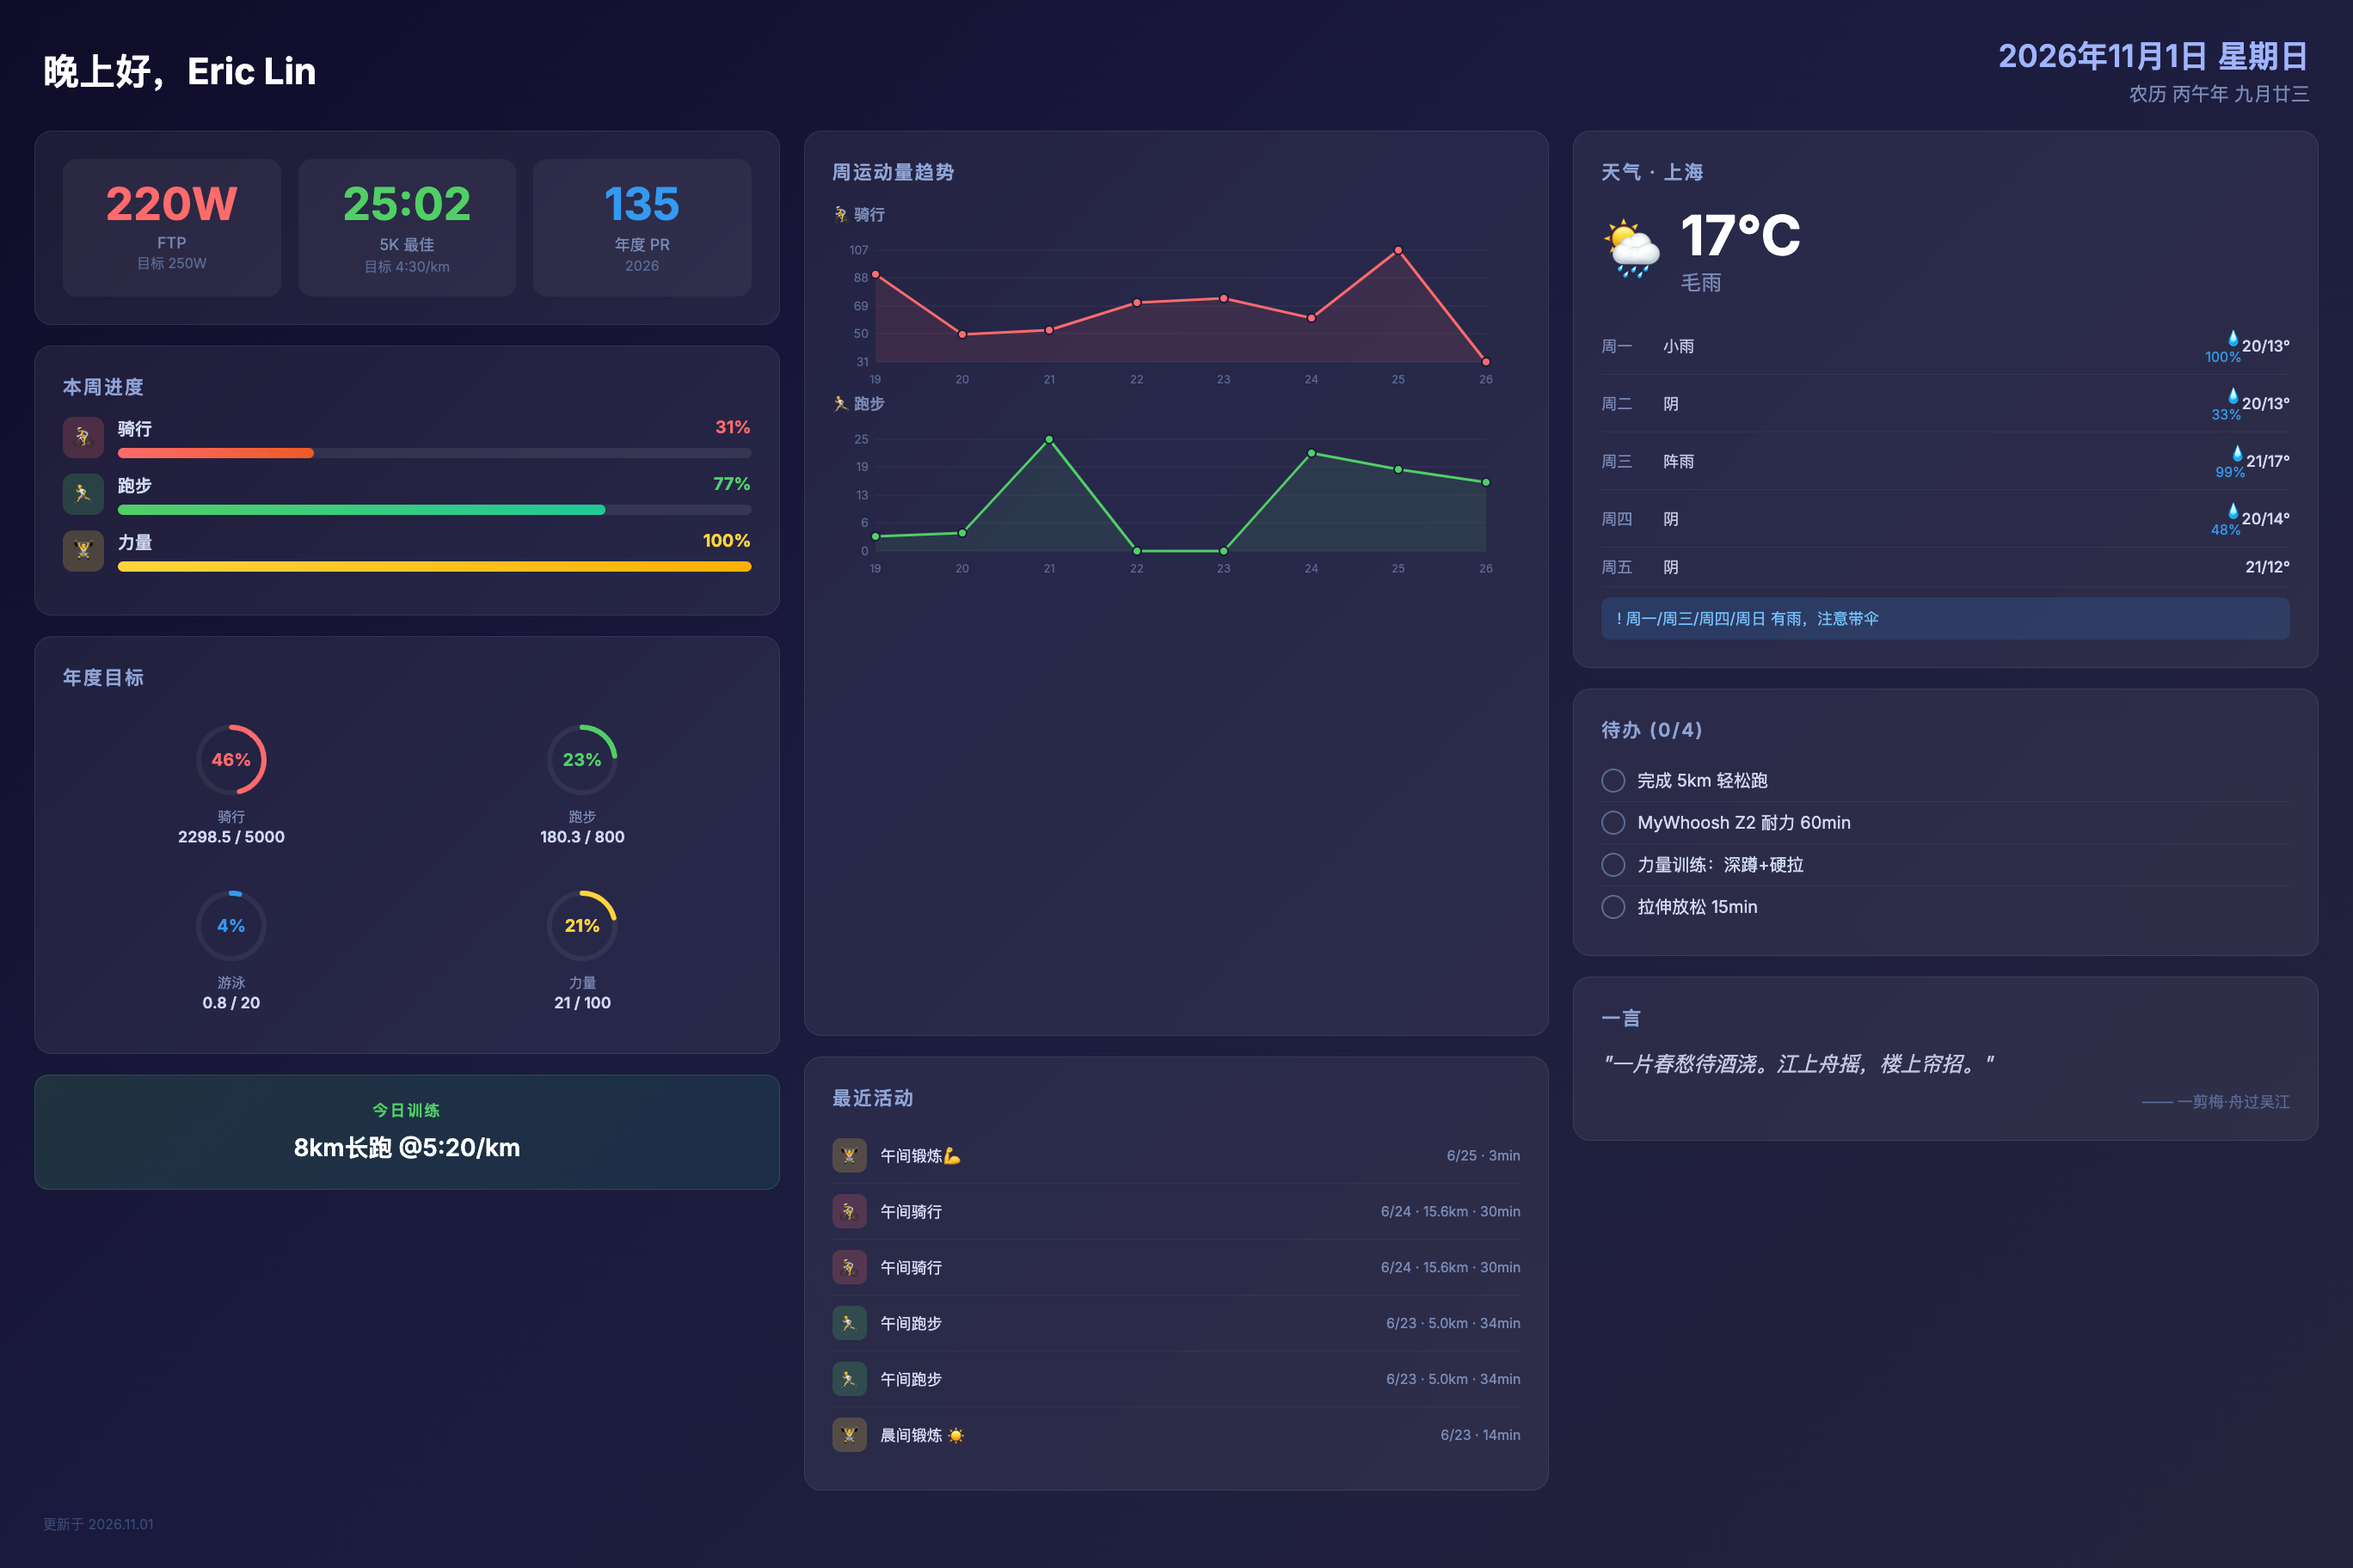
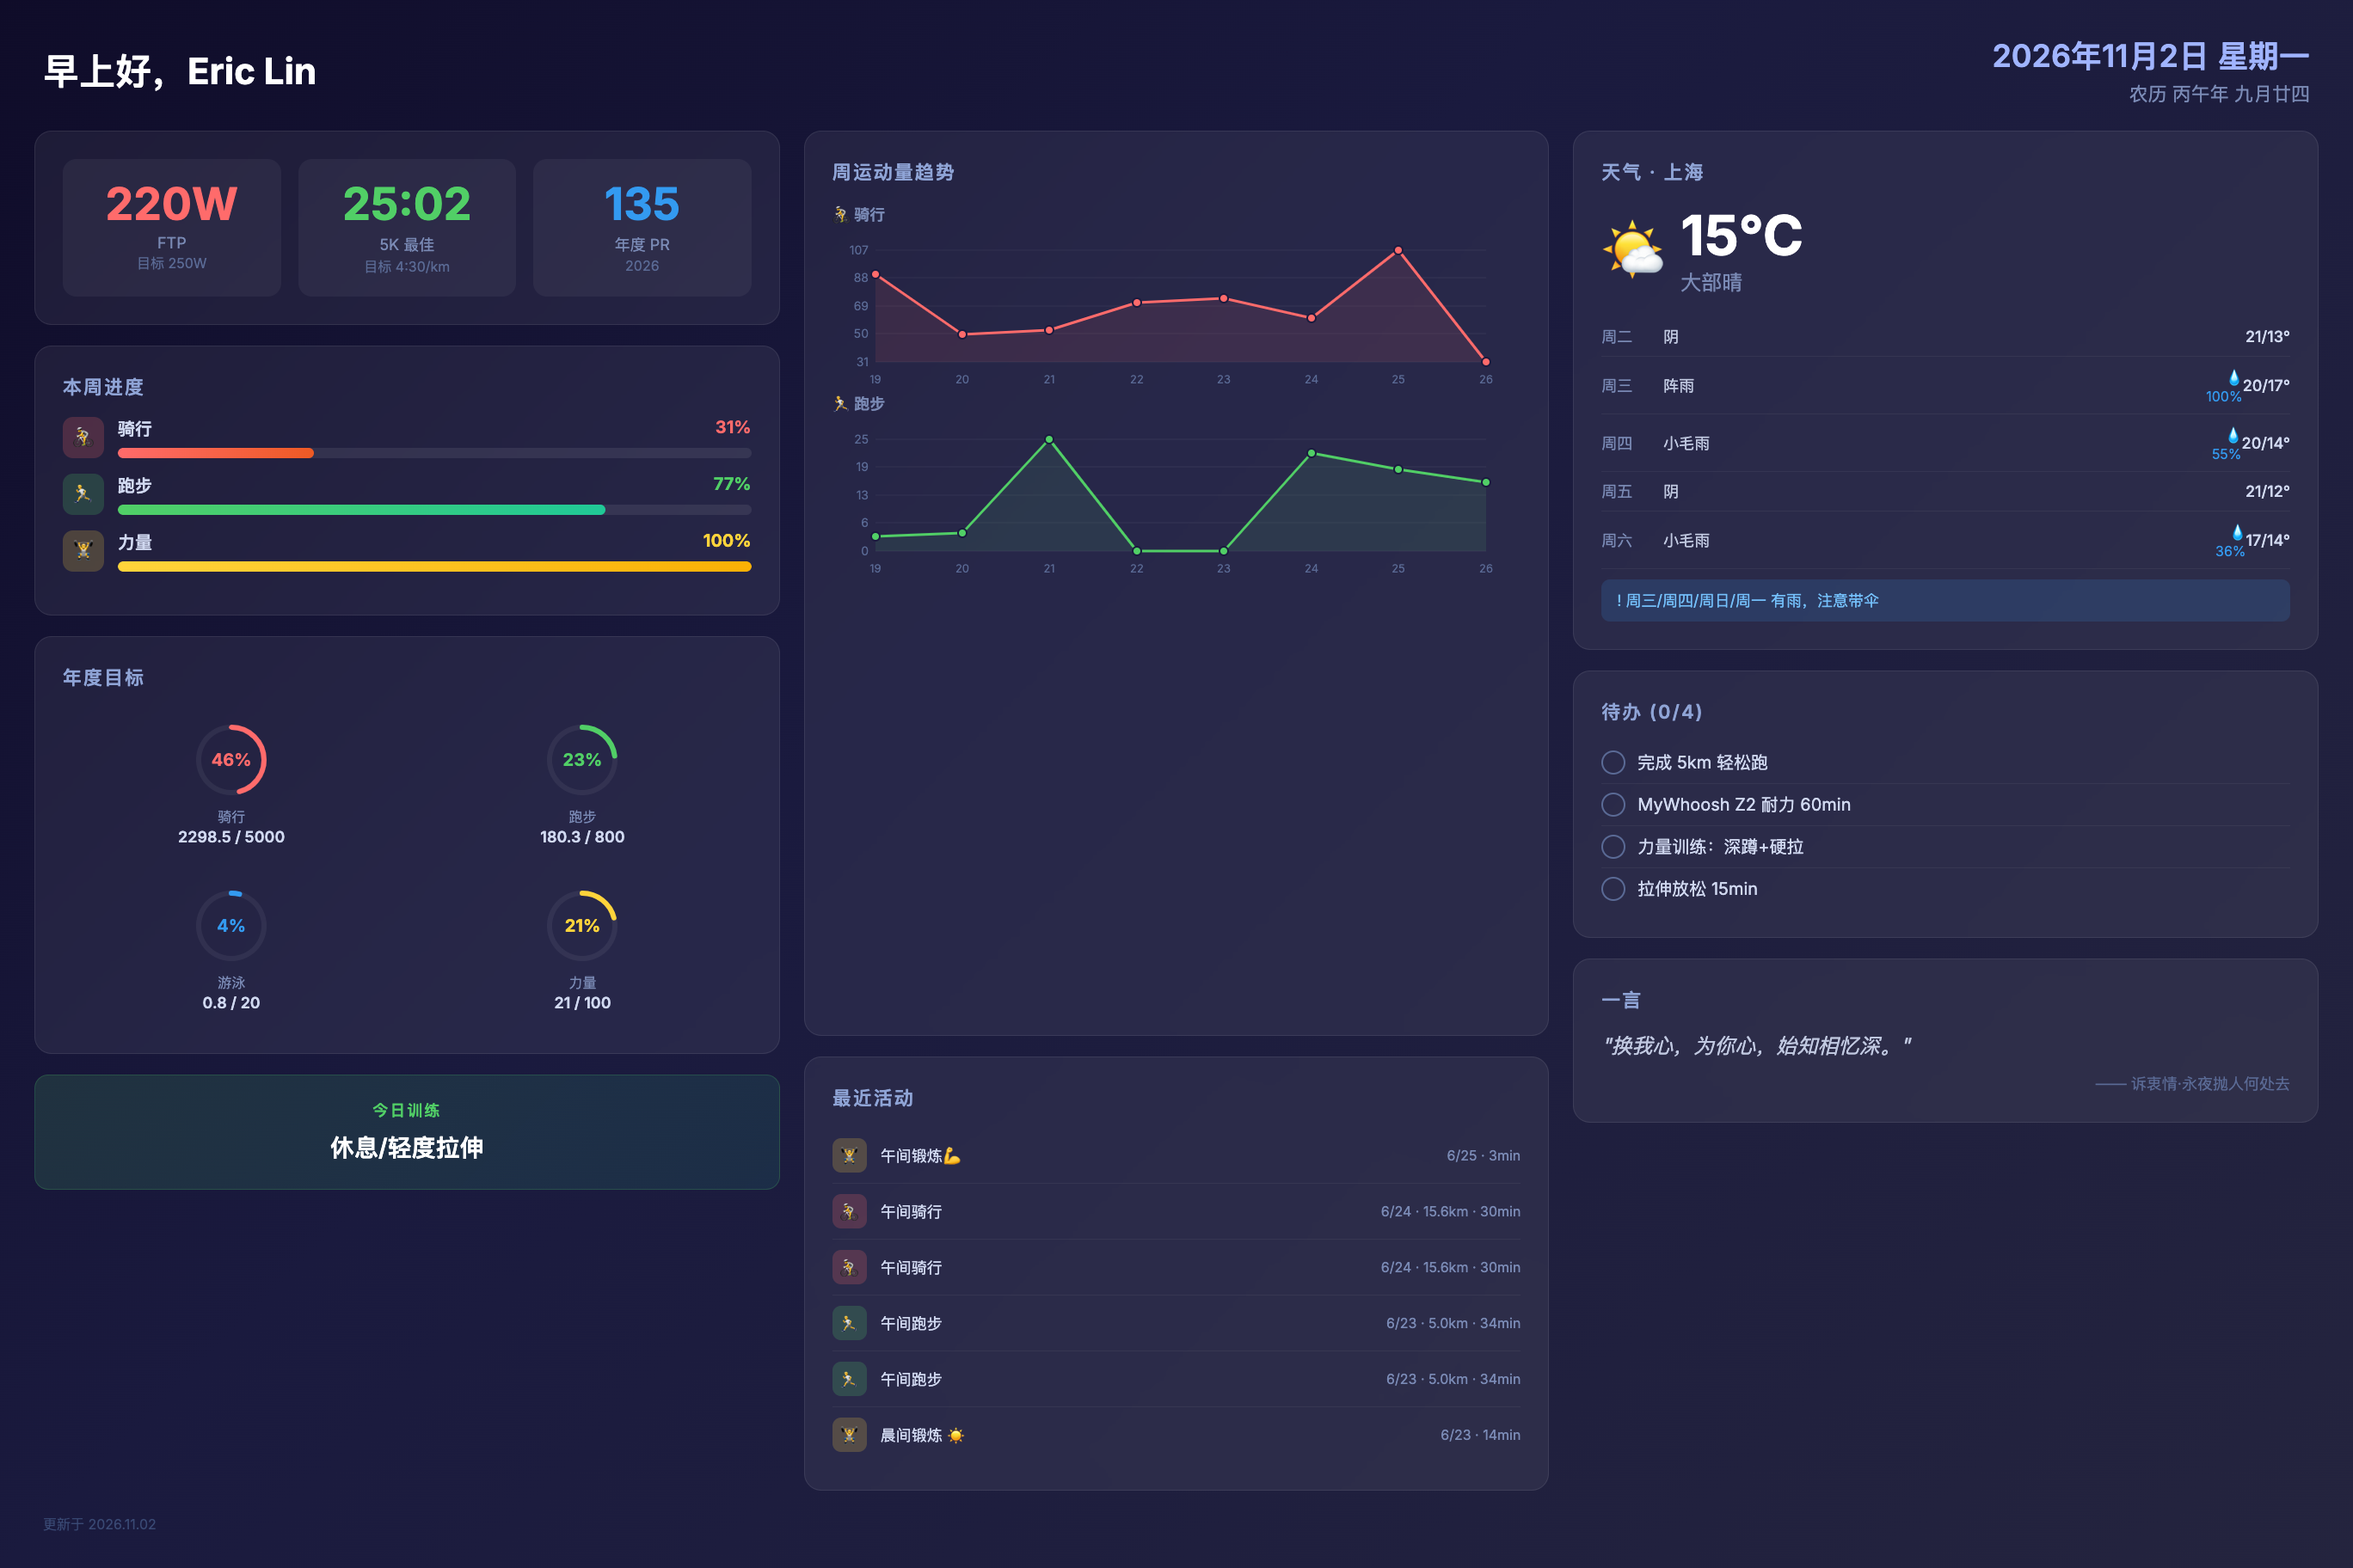
deploy: 2026-11-02-07:00

diff --git a/screensaver.html b/screensaver.html
@@ -490,13 +490,13 @@ html, body {
 <!-- ===== TOP BAR ===== -->
 <div class="top-bar">
   <div>
-    <div class="greeting">晚上好，Eric Lin</div>
+    <div class="greeting">早上好，Eric Lin</div>
     
   </div>
   <div class="date-info">
-    <div class="solar-date">2026年11月1日 星期日</div>
+    <div class="solar-date">2026年11月2日 星期一</div>
     
-    <div class="lunar-date">农历 丙午年 九月廿三</div>
+    <div class="lunar-date">农历 丙午年 九月廿四</div>
     
   </div>
 </div>
@@ -638,7 +638,7 @@ html, body {
   
   <div class="ai-today-card">
     <div class="ai-today-label">今日训练</div>
-    <div class="ai-today-text">8km长跑 @5:20/km</div>
+    <div class="ai-today-text">休息/轻度拉伸</div>
   </div>
   
 
@@ -784,39 +784,32 @@ html, body {
   <div class="card">
     <div class="card-title">天气 · 上海</div>
     <div class="weather-current">
-      <div class="weather-icon-big">🌦</div>
+      <div class="weather-icon-big">🌤</div>
       <div>
-        <div class="weather-temp-big">17°C</div>
-        <div class="weather-desc">毛雨</div>
+        <div class="weather-temp-big">15°C</div>
+        <div class="weather-desc">大部晴</div>
       </div>
     </div>
     
     
     <div class="forecast-row">
-      <div class="forecast-day">周一</div>
-      <div class="forecast-desc">小雨</div>
-      <div class="forecast-precip">💧100%</div>
-      <div class="forecast-range">20/13°</div>
-    </div>
-    
-    <div class="forecast-row">
       <div class="forecast-day">周二</div>
       <div class="forecast-desc">阴</div>
-      <div class="forecast-precip">💧33%</div>
-      <div class="forecast-range">20/13°</div>
+      <div class="forecast-precip"></div>
+      <div class="forecast-range">21/13°</div>
     </div>
     
     <div class="forecast-row">
       <div class="forecast-day">周三</div>
       <div class="forecast-desc">阵雨</div>
-      <div class="forecast-precip">💧99%</div>
-      <div class="forecast-range">21/17°</div>
+      <div class="forecast-precip">💧100%</div>
+      <div class="forecast-range">20/17°</div>
     </div>
     
     <div class="forecast-row">
       <div class="forecast-day">周四</div>
-      <div class="forecast-desc">阴</div>
-      <div class="forecast-precip">💧48%</div>
+      <div class="forecast-desc">小毛雨</div>
+      <div class="forecast-precip">💧55%</div>
       <div class="forecast-range">20/14°</div>
     </div>
     
@@ -827,9 +820,16 @@ html, body {
       <div class="forecast-range">21/12°</div>
     </div>
     
+    <div class="forecast-row">
+      <div class="forecast-day">周六</div>
+      <div class="forecast-desc">小毛雨</div>
+      <div class="forecast-precip">💧36%</div>
+      <div class="forecast-range">17/14°</div>
+    </div>
     
     
-    <div class="rain-alert">! 周一/周三/周四/周日 有雨，注意带伞</div>
+    
+    <div class="rain-alert">! 周三/周四/周日/周一 有雨，注意带伞</div>
     
   </div>
   
@@ -878,9 +878,9 @@ html, body {
   
   <div class="card">
     <div class="card-title">一言</div>
-    <div class="quote-text">"一片春愁待酒浇。江上舟摇，楼上帘招。"</div>
+    <div class="quote-text">"换我心，为你心，始知相忆深。"</div>
     
-    <div class="quote-from">—— 一剪梅·舟过吴江</div>
+    <div class="quote-from">—— 诉衷情·永夜抛人何处去</div>
     
   </div>
   
@@ -889,7 +889,7 @@ html, body {
 
 <!-- ===== BOTTOM BAR ===== -->
 <div class="bottom-bar">
-  <div class="update-time">更新于 2026.11.01</div>
+  <div class="update-time">更新于 2026.11.02</div>
 </div>
 
 </div>

diff --git a/life.html b/life.html
@@ -89,7 +89,7 @@ html, body {
 <table class="header-table">
   <tr>
     <td class="header-left">生活</td>
-    <td class="header-right">2026.11.01</td>
+    <td class="header-right">2026.11.02</td>
   </tr>
 </table>
 
@@ -137,39 +137,32 @@ html, body {
   <p class="section-title">☀ 天气 · 上海</p>
   <table class="weather-table">
     <tr>
-      <td class="weather-icon">.</td>
-      <td class="weather-temp">17°C</td>
-      <td class="weather-desc">毛雨</td>
+      <td class="weather-icon">*</td>
+      <td class="weather-temp">15°C</td>
+      <td class="weather-desc">大部晴</td>
     </tr>
   </table>
   
   <table class="forecast-table">
     
     <tr>
-      <td class="forecast-day">周一</td>
-      <td class="forecast-icon">.</td>
-      <td>小雨</td>
-      <td class="forecast-range">20/13°C</td>
-    </tr>
-    
-    <tr>
       <td class="forecast-day">周二</td>
       <td class="forecast-icon">~</td>
       <td>阴</td>
-      <td class="forecast-range">20/13°C</td>
+      <td class="forecast-range">21/13°C</td>
     </tr>
     
     <tr>
       <td class="forecast-day">周三</td>
       <td class="forecast-icon">|</td>
       <td>阵雨</td>
-      <td class="forecast-range">21/17°C</td>
+      <td class="forecast-range">20/17°C</td>
     </tr>
     
     <tr>
       <td class="forecast-day">周四</td>
-      <td class="forecast-icon">~</td>
-      <td>阴</td>
+      <td class="forecast-icon">.</td>
+      <td>小毛雨</td>
       <td class="forecast-range">20/14°C</td>
     </tr>
     
@@ -190,14 +183,21 @@ html, body {
     <tr>
       <td class="forecast-day">周日</td>
       <td class="forecast-icon">.</td>
+      <td>毛雨</td>
+      <td class="forecast-range">16/14°C</td>
+    </tr>
+    
+    <tr>
+      <td class="forecast-day">周一</td>
+      <td class="forecast-icon">.</td>
       <td>小毛雨</td>
-      <td class="forecast-range">17/14°C</td>
+      <td class="forecast-range">16/13°C</td>
     </tr>
     
   </table>
   
   
-  <div class="rain-alert">! 周一/周三/周四/周日 有雨，注意带伞</div>
+  <div class="rain-alert">! 周三/周四/周日/周一 有雨，注意带伞</div>
   
 </div>
 
@@ -207,10 +207,10 @@ html, body {
   <p class="section-title">📅 今日</p>
   <table class="data-table">
     <tr>
-      <td>2026年11月1日 星期六</td>
+      <td>2026年11月2日 星期日</td>
     </tr>
     <tr>
-      <td>农历丙午年 九月廿三</td>
+      <td>农历丙午年 九月廿四</td>
     </tr>
   </table>
 </div>
@@ -261,9 +261,9 @@ html, body {
 
 <div class="box">
   <p class="section-title">💬 一言</p>
-  <p class="quote-text">一片春愁待酒浇。江上舟摇，楼上帘招。</p>
+  <p class="quote-text">换我心，为你心，始知相忆深。</p>
   
-  <p class="quote-from">—— 一剪梅·舟过吴江</p>
+  <p class="quote-from">—— 诉衷情·永夜抛人何处去</p>
   
 </div>
 

diff --git a/index.html b/index.html
@@ -74,7 +74,7 @@ html, body {
 <table class="header-table">
   <tr>
     <td class="header-left">Eric Lin · 运动</td>
-    <td class="header-right">2026.11.01</td>
+    <td class="header-right">2026.11.02</td>
   </tr>
 </table>
 
@@ -225,17 +225,10 @@ html, body {
 <div class="ai-plan">
   <div class="ai-plan-title">AI 训练建议</div>
   
-  <div class="ai-today">今日: 长跑 8km @5:20/km</div>
+  <div class="ai-today">今日: 休息</div>
   
   
   <table class="ai-weekly">
-    
-    <tr>
-      <td class="day">周日</td>
-      
-      <td>长跑 8km @5:20/km</td>
-      
-    </tr>
     
     <tr>
       <td class="day">周一</td>
@@ -276,6 +269,13 @@ html, body {
       <td class="day">周六</td>
       
       <td>户外骑行 60km Z2-Z3</td>
+      
+    </tr>
+    
+    <tr>
+      <td class="day">周日</td>
+      
+      <td>长跑 8km @5:20/km</td>
       
     </tr>
     

diff --git a/work.html b/work.html
@@ -89,7 +89,7 @@ html, body {
 <table class="header-table">
   <tr>
     <td class="header-left">工作</td>
-    <td class="header-right">2026.11.01</td>
+    <td class="header-right">2026.11.02</td>
   </tr>
 </table>
 
